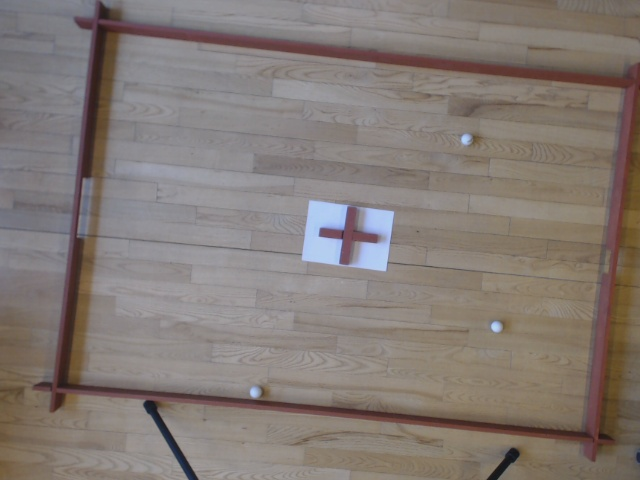
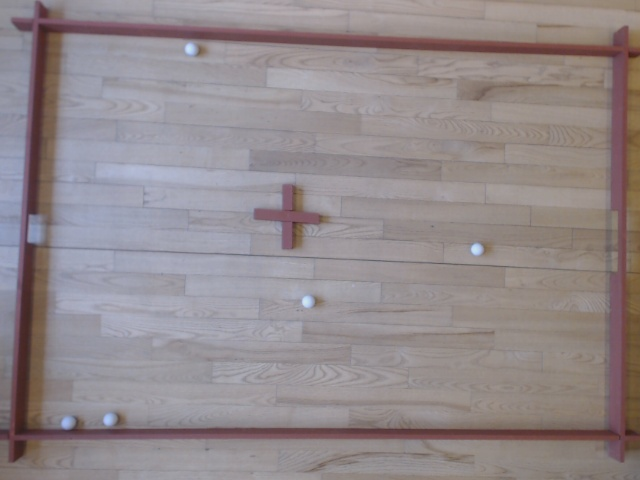
Så skulle vi kunne finde banen, det ser ud til at virke ret godt i al fald

diff --git a/openCVTest/src/test/ContourTest.java b/openCVTest/src/test/ContourTest.java
@@ -4,16 +4,22 @@ import java.awt.Image;
 import java.awt.image.BufferedImage;
 import java.awt.image.DataBufferByte;
 import java.util.ArrayList;
+import java.util.List;
+import java.util.Vector;
 
 import org.opencv.core.Core;
 import org.opencv.core.Mat;
+import org.opencv.core.MatOfPoint;
 import org.opencv.core.Point;
+import org.opencv.core.Rect;
 import org.opencv.core.Scalar;
 import org.opencv.core.Size;
 import org.opencv.highgui.Highgui;
 import org.opencv.highgui.VideoCapture;
 import org.opencv.imgproc.Imgproc;
 import org.opencv.imgproc.Moments;
+
+import com.sun.javafx.geom.Vec2f;
 
 public class ContourTest implements Runnable {
 	public int ballSize = 5;
@@ -29,13 +35,15 @@ public class ContourTest implements Runnable {
 	public Image outImg, outImg2;
 
 	public ArrayList<NodeObjects> objects;
+	public ArrayList<Point> lineCoordinates;
+	private Mat image;
 
 	public void run() {
 
 		// Load the library
 		System.loadLibrary(Core.NATIVE_LIBRARY_NAME);
 		// get a picture from the webcam and save it VideoCapture
-		VideoCapture videoCapture = new VideoCapture(1);
+		VideoCapture videoCapture = new VideoCapture(0);
 		if (!videoCapture.isOpened()) {
 			System.out.println("could not find video ");
 		} else {
@@ -44,32 +52,60 @@ public class ContourTest implements Runnable {
 		Mat frame = new Mat();
 
 		while (true) {
+			lineCoordinates = new ArrayList<Point>();
 			objects = new ArrayList<NodeObjects>();
 
 			videoCapture.read(frame);
 			Highgui.imwrite("cameraInput.jpg", frame);
-			
+
 			// Consider the image for processing Imgproc.COLOR_BGR2GRAY
-			Mat image = Highgui.imread("cameraInput.jpg");
+			image = Highgui.imread("cameraTest.jpg");
 			Mat imageHSV = new Mat(image.size(), Core.DEPTH_MASK_8U);
 			Mat imageBlurr = new Mat(image.size(), Core.DEPTH_MASK_8U);
+			// Mat imageA = new Mat(image.size(), Core.DEPTH_MASK_ALL);
 			Imgproc.cvtColor(image, imageHSV, Imgproc.COLOR_BGR2GRAY);
-			Highgui.imwrite("gray.jpg", imageHSV); 
+			Highgui.imwrite("gray.jpg", imageHSV);
 			Imgproc.GaussianBlur(imageHSV, imageBlurr, new Size(1, 1), 2, 2);
-			
-			
-			Highgui.imwrite("blurred.jpg", imageBlurr); 
 
+			/*
+			 * Find the lines representing the edge of the field
+			 */
+
+			Mat src = Highgui.imread("cameraTest.jpg", 0);
+			Mat dst = new Mat();
+			// Imgproc.cvtColor(src, dst, Imgproc.COLOR_YUV420sp2RGB);
+			// Highgui.imwrite("wtf1.jpg",dst);
+			Imgproc.cvtColor(src, dst, Imgproc.COLOR_GRAY2BGR);
+			Highgui.imwrite("wtf2.jpg", dst);
+			Imgproc.Canny(dst, dst, 50, 200, 3, false);
+
+			Mat lines = new Mat();
+
+			Imgproc.HoughLinesP(dst, lines, 1, Math.PI / 180, 50, 360, 350);
+
+			for (int x = 0; x < lines.cols(); x++) {
+				double[] vec = lines.get(0, x);
+				double x1 = vec[0], y1 = vec[1], x2 = vec[2], y2 = vec[3];
+				Point start = new Point(x1, y1);
+				Point end = new Point(x2, y2);
+				lineCoordinates.add(start);
+				lineCoordinates.add(end);
+				// Core.line(image, start, end, new Scalar(255,0,0), 3);
+
+			}
+			drawApproxLines();
+
+			/*
+			 * Find the circles in the image
+			 */
 			Mat circles = new Mat();
 			Imgproc.HoughCircles(imageBlurr, circles,
-					Imgproc.CV_HOUGH_GRADIENT, 1, 10, 200,10, 0, 10);
-			
+					Imgproc.CV_HOUGH_GRADIENT, 1, 10, 200, 10, 0, 10);
 
 			if (!circles.empty()) {
 				int radius;
 				Point pt;
 
-				System.out.println("found circle");
 				for (int i = 0; i <= circles.cols(); i++) {
 
 					double[] coordinate = circles.get(0, i);
@@ -88,7 +124,7 @@ public class ContourTest implements Runnable {
 
 			// find the robot with color scan
 
-			Mat imgOriginal = Highgui.imread("cameraInput.jpg");
+			Mat imgOriginal = Highgui.imread("cameraTest.jpg");
 
 			Mat imgHSV = new Mat();
 
@@ -138,8 +174,13 @@ public class ContourTest implements Runnable {
 			// convert to buffered image to show on the screen
 			outImg2 = toBufferedImage(image);
 			outImg = toBufferedImage(imgThresholded);
-			System.out.println("the image is set");
+
+			for (int i = 0; i < objects.size(); i++) {
+				System.out.println(objects.get(i).toString());
+			}
+			System.out.println("*****************************************");
 		}
+
 	}
 
 	/**
@@ -163,5 +204,94 @@ public class ContourTest implements Runnable {
 		return image;
 
 	}
+
+	private void drawApproxLines() {
+		Rect topLeftRect = new Rect(new Point(0, 0), new Point(100, 100));
+		Rect topRightRect = new Rect(new Point(540, 0), new Point(640, 100));
+		Rect bottomLeftRect = new Rect(new Point(0, 380), new Point(100, 480));
+		Rect bottomRightRect = new Rect(new Point(540, 380),
+				new Point(640, 480));
+
+		Point lineTopLeft;
+		Point lineTopRight;
+		Point lineBottomLeft;
+		Point lineBottomRight;
+		int count = 0;
+		int x = 0;
+		int y = 0;
+		// find all the points closest to top left corner
+		for (int i = 0; i < lineCoordinates.size(); i++) {
+			if (lineCoordinates.get(i).inside(topLeftRect)) {
+				count++;
+				x += lineCoordinates.get(i).x;
+				y += lineCoordinates.get(i).y;
+			}
+		}
+		x /= count;
+		y /= count;
+		lineTopLeft = new Point(x, y);
+
+		x = 0;
+		y = 0;
+		count = 0;
+
+		// find all the points closest to top right corner
+		for (int i = 0; i < lineCoordinates.size(); i++) {
+			if (lineCoordinates.get(i).inside(topRightRect)) {
+				count++;
+				x += lineCoordinates.get(i).x;
+				y += lineCoordinates.get(i).y;
+			}
+		}
+		x /= count;
+		y /= count;
+		lineTopRight = new Point(x, y);
+		x = 0;
+		y = 0;
+		count = 0;
+
+		// find all the points closest to bottom left corner
+		for (int i = 0; i < lineCoordinates.size(); i++) {
+			if (lineCoordinates.get(i).inside(bottomLeftRect)) {
+				count++;
+				x += lineCoordinates.get(i).x;
+				y += lineCoordinates.get(i).y;
+			}
+		}
+		x /= count;
+		y /= count;
+		lineBottomLeft = new Point(x, y);
+		x = 0;
+		y = 0;
+		count = 0;
+
+		// find all the points closest to bottom right corner
+		for (int i = 0; i < lineCoordinates.size(); i++) {
+			if (lineCoordinates.get(i).inside(bottomRightRect)) {
+				count++;
+				x += lineCoordinates.get(i).x;
+				y += lineCoordinates.get(i).y;
+			}
+		}
+		x /= count;
+		y /= count;
+		lineBottomRight = new Point(x, y);
+
+		// draw lines
+		// Core.rectangle(image, new Point(0, 0), new Point(100, 100), new
+		// Scalar(
+		// 255, 0, 0), 3);
+		// Core.rectangle(image, new Point(540, 0), new Point(640, 100),
+		// new Scalar(255, 0, 0), 3);
+		// Core.rectangle(image, new Point(0, 380), new Point(100, 480),
+		// new Scalar(255, 0, 0), 3);
+		// Core.rectangle(image, new Point(540, 380), new Point(640, 480),
+		// new Scalar(255, 0, 0), 3);
+		Core.line(image, lineTopLeft, lineTopRight, new Scalar(0, 0, 255), 3);
+		Core.line(image, lineTopLeft, lineBottomLeft, new Scalar(0, 0, 255), 3);
+		Core.line(image, lineBottomLeft, lineBottomRight,
+				new Scalar(0, 0, 255), 3);
+		Core.line(image, lineTopRight, lineBottomRight, new Scalar(0, 0, 255),
+				3);
+	}
 }
-// }

diff --git a/openCVTest/src/test/NodeObjects.java b/openCVTest/src/test/NodeObjects.java
@@ -22,6 +22,9 @@ public class NodeObjects {
 	public double getY() {
 		return y;
 	}
-
+	
+	public String toString(){
+		return "x = " + x + " y = " + y;
+	}
 	
 }
